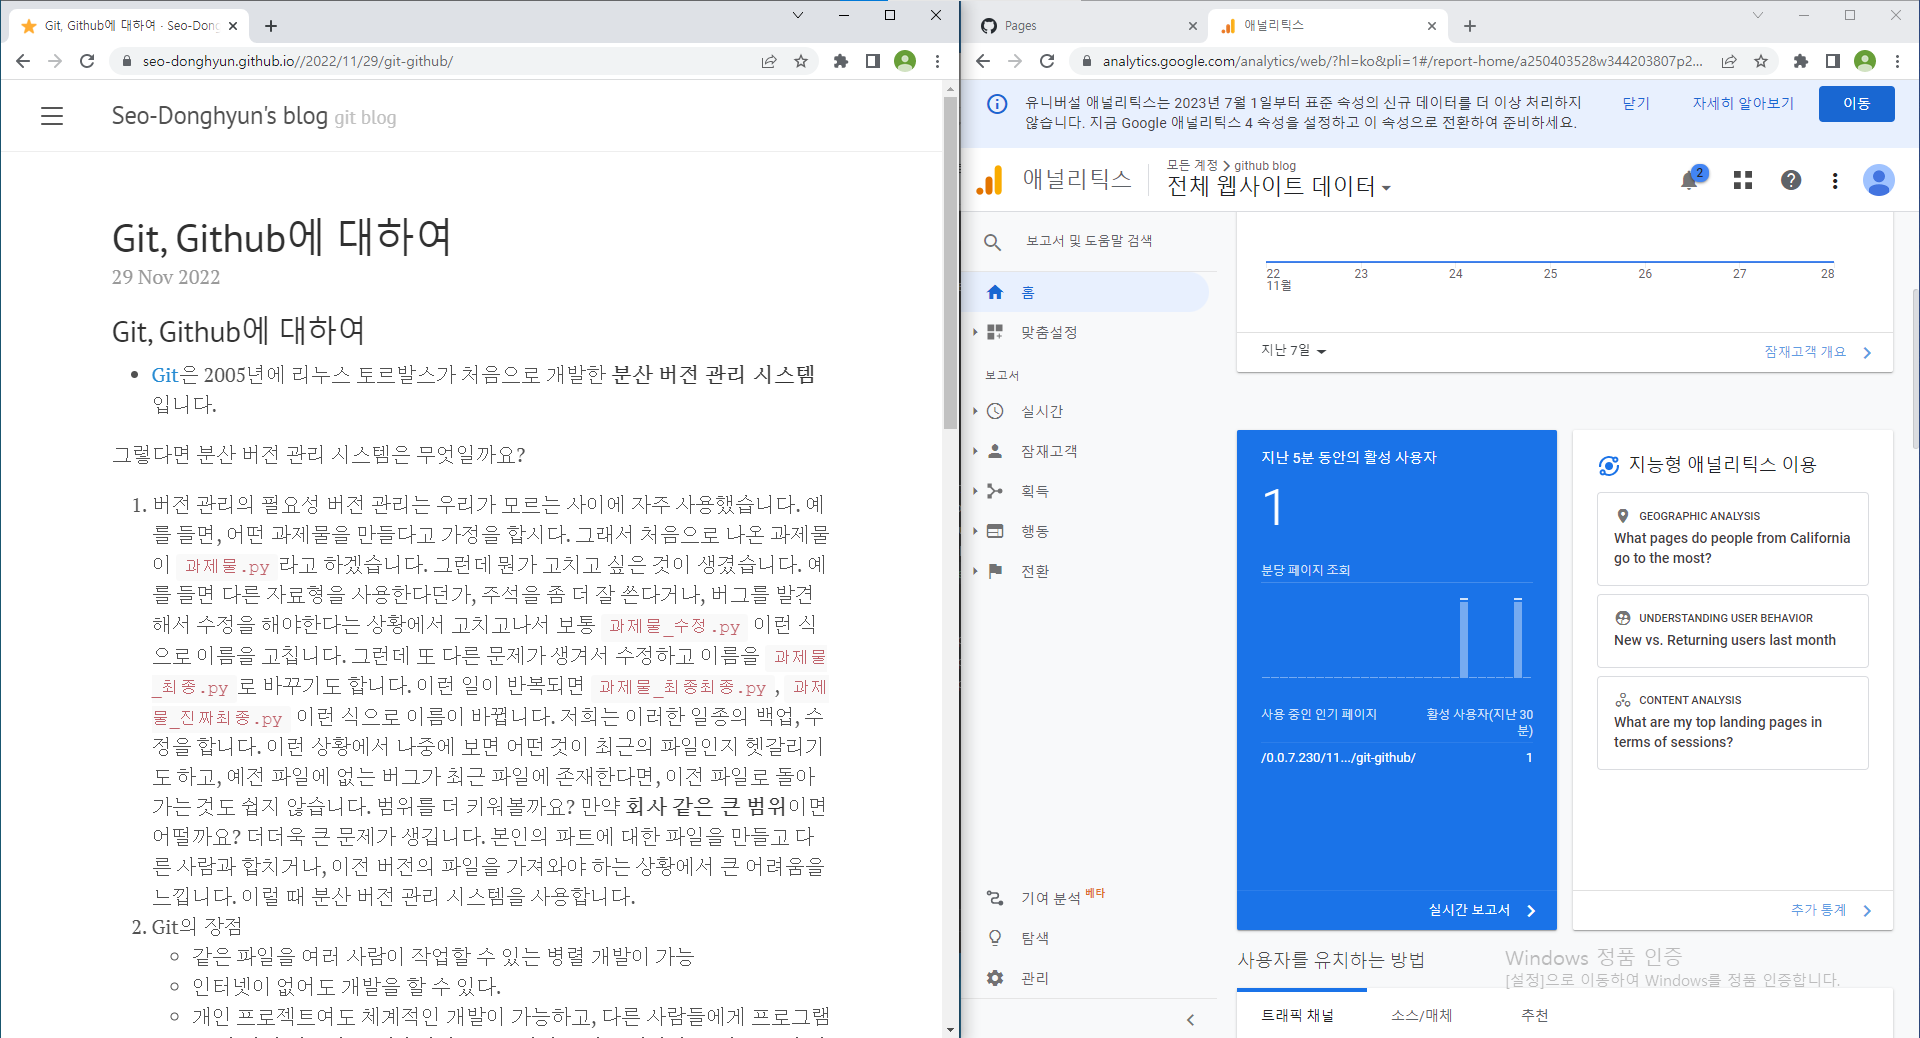
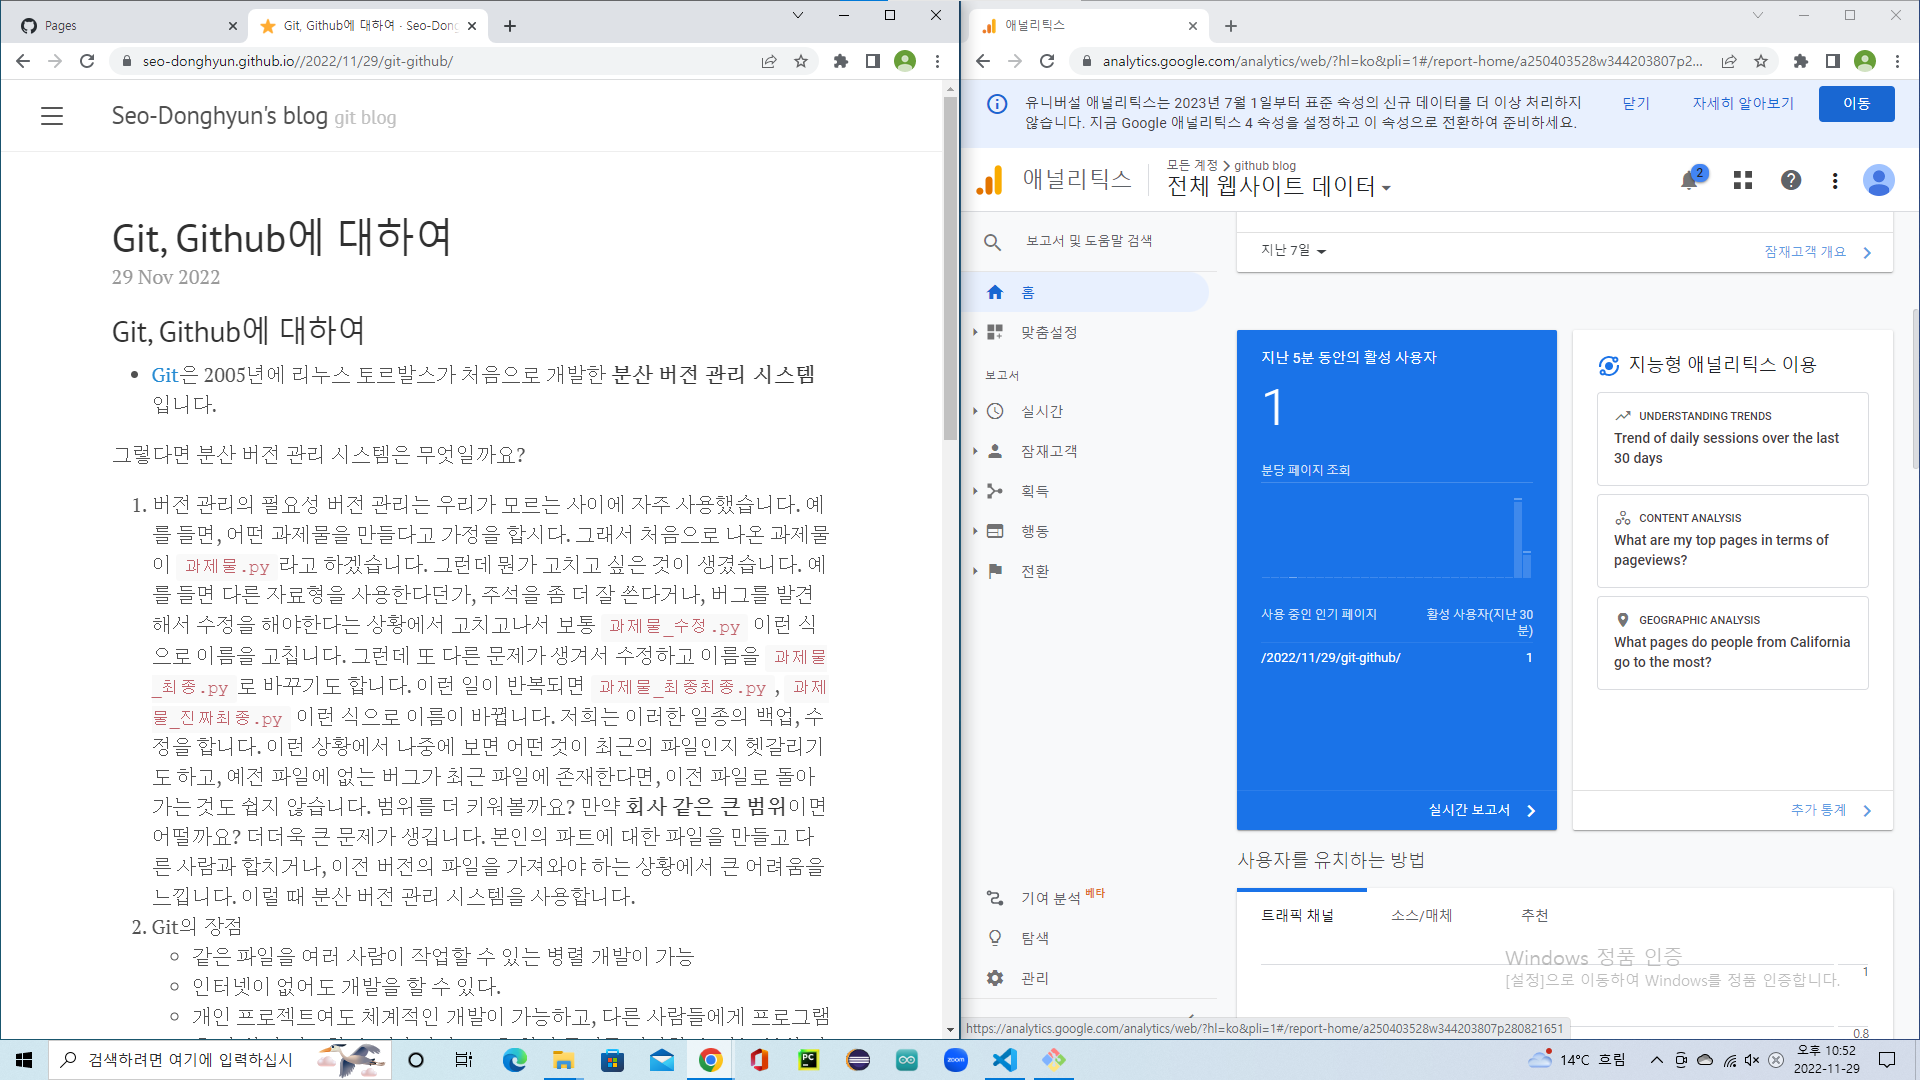
post google analytics

diff --git a/_posts/2022-11-29-google analytics.md b/_posts/2022-11-29-google analytics.md
@@ -1,0 +1,25 @@
+---
+layout: post
+title: Google Analytics 적용
+comments: true
+---
+
+## 구글 애널리틱스([Google Analytics](https://www.google.com/analytics/web/?hl=ko))
+
+이번에 github 블로그 특강을 받았을 때, google analytics가 있었습니다.
+구글 애널리틱스는 웹사이트 트래픽을 추적하고 보고하는 구글이 제공하는 웹 애널리틱스 서비스입니다. 말 그대로 제가 설정한 사이트에 대해서 방문자 수, 어떤 페이지가 인기 있는지, 시간별로 사용자 수는 어떤지 등등 분석한 자료를 볼 수 있는 서비스입니다.
+
+## 적용하는 과정
+1. 계정 생성
+[구글 애널리틱스 공식 사이트](https://www.google.com/analytics/web/?hl=ko)에서 계정을 생성합니다. 생성하면서 계정 이름, 사이트 주소를 정확히 입력해야합니다. **그런데 여기서 주의할 점!!!** 구글 애널리틱스에서 추적(측정)코드에 따라 두 가지 종류가 있습니다.
+  * 유니버설 애널리틱스(UA) : 코드가 `UA`로 시작함
+  * Google 애널리틱스 4(GA4) : 코드가 `G`로 시작함
+두 가지의 차이점은 [구글 애널리틱스 도움말](https://support.google.com/analytics/answer/9964640?hl=ko#zippy=%2C%EC%9D%B4-%EB%8F%84%EC%9B%80%EB%A7%90%EC%97%90%EC%84%9C%EB%8A%94-%EB%8B%A4%EC%9D%8C-%EB%82%B4%EC%9A%A9%EC%9D%84-%EB%8B%A4%EB%A3%B9%EB%8B%88%EB%8B%A4) 에서 볼 수 있습니다.
+또한 Google 애널리틱스 4(GA4)가 상대적으로 최신 기술인데, 이 때문인지 기존의 UA코드를 GA4로 강제로 바꾸어버리는 일도 있었습니다. 그러나 기업이나 단체에 따라 UA를 사용하는 것도 있을 수 있습니다. 그래서 본인 필요에 따라 UA를 할지 GA4를 할지 정하면 됩니다. GA4를 하면 그냥 계정 생성을 하면 되지만, UA를 하고 싶으면 계정 생성 페이지에서 사이트 주고, 국가를 정하는 곳이 있습니다. 거기에서 고급 설정에 가면 UA를 사용할 수 있습니다.
+
+2. 적용
+사람들 마다 다르겠지만, 저의 경우에는 테마에 주석으로 UA를 사용하라고 되어있어서 UA로 만들었습니다. 그리고 **관리-속성-추적정보-추적코드**에 들어가면 범용 사이트 태그가 있습니다. 여기에 나온 코드를 복사해서 추적할 모든 웹페이지의 `<HEAD>`에, 보통은 head.html에 붙여넣으면 됩니다.
+
+3. 테스트
+이 과정을 통해 제 블로그에 방문했을 때 몇 명이 왔었다는 것을 알 수 있었습니다. 아래는 테스트 결과입니다.
+![google analytics](/assets/images/gooanalpost1.png "google analytics")
